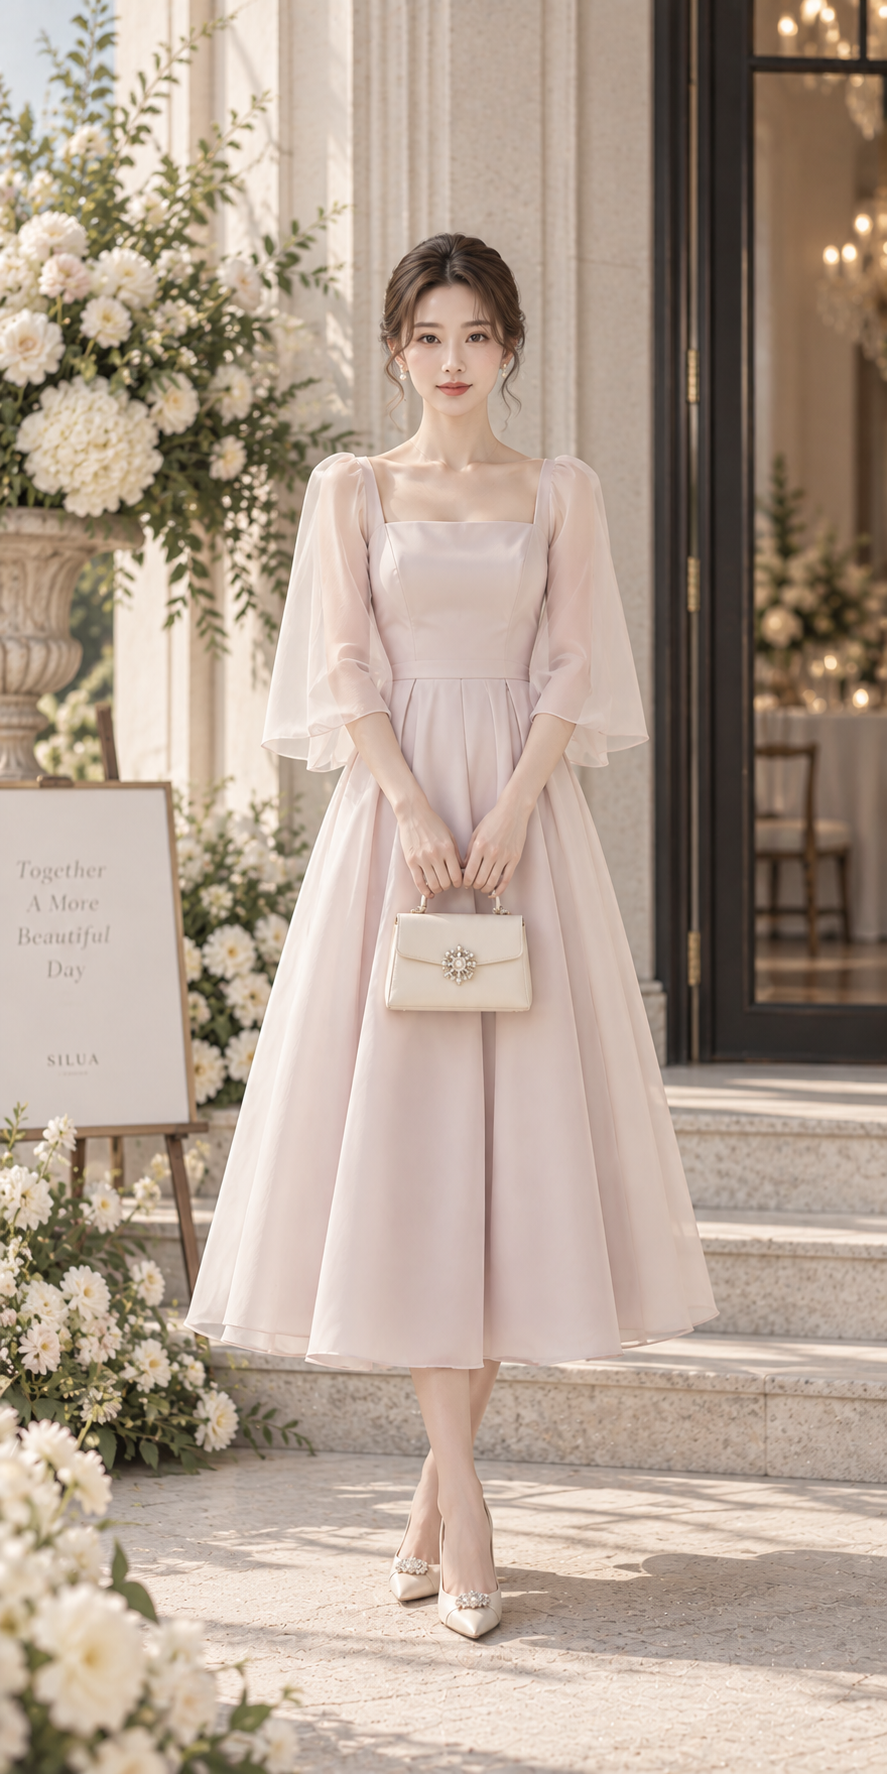
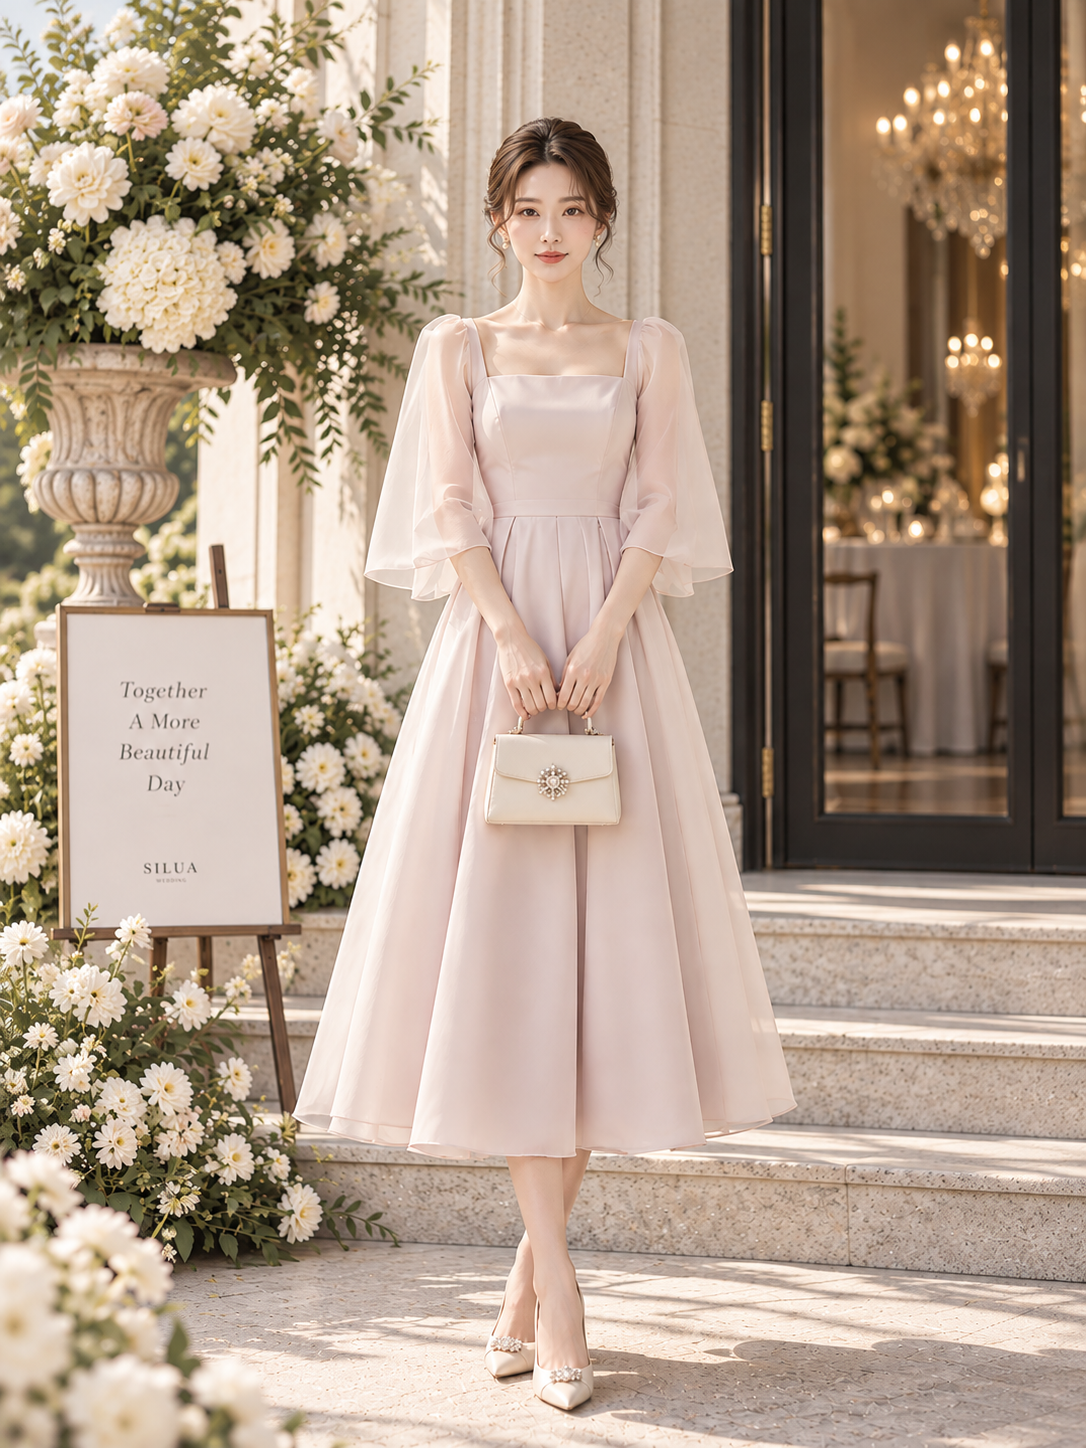
[정민지] 메인 이미지와 소개 문구 조정

diff --git a/index.html b/index.html
@@ -17,7 +17,7 @@
 
   <!-- 탭 아이콘 (images/favicon.png 넣으면 표시됨) -->
   <link rel="icon" href="images/favicon.png" />
-  <link rel="stylesheet" href="style.css?v=20260918-new-images-25" />
+  <link rel="stylesheet" href="style.css?v=20260918-home-copy-26" />
 </head>
 <body class="home-page">
 
@@ -79,22 +79,22 @@
   <div class="home-transition" aria-label="SILUA 컬렉션">
     <div class="home-transition-inner">
       <p class="home-transition-logo">SILUA</p>
-      <p class="home-transition-copy">예쁜 옷을 입는 것보다,<br />나에게 어울리는 아름다움을 찾는 것. SILUA는 셀프 웨딩에서 시작해<br />나에게 가장 어울리는 실루엣과 스타일을 제안합니다.</p>
+      <p class="home-transition-copy"><span class="home-transition-emphasis">예쁜 옷을 입는 것보다,<br />나에게 어울리는 아름다움을 찾는 것.</span><span>SILUA는 셀프 웨딩에서 시작해<br />나에게 가장 어울리는 실루엣과 스타일을 제안합니다.</span></p>
     </div>
   </div>
 
   <!-- ===== 메인 카테고리: 전용 사진을 받으면 이미지 경로만 교체하세요. ===== -->
   <section class="home-categories" id="themes" aria-label="SILUA 카테고리">
     <a class="home-category" data-theme-category="self-wedding" href="products.html?collection=self-wedding">
-      <figure><img src="images/theme-bridal.png?v=20260918-2" alt="브라이덜 컬렉션" /></figure>
+      <figure><img src="images/theme-bridal.png?v=20260918-3" alt="브라이덜 컬렉션" /></figure>
       <div class="home-category-copy"><h2>Self Weading</h2><p>인생의 주인공이 되는 날</p><span>자세히 보기 &gt;</span></div>
     </a>
     <a class="home-category" data-theme-category="evening-party" href="products.html?collection=evening-party">
-      <figure><img src="images/theme-evening.png?v=20260918-2" alt="이브닝 컬렉션" /></figure>
+      <figure><img src="images/theme-evening.png?v=20260918-3" alt="이브닝 컬렉션" /></figure>
       <div class="home-category-copy"><h2>Evening &amp; Party</h2><p>화려하게 빛나는 순간</p><span>자세히 보기 &gt;</span></div>
     </a>
     <a class="home-category" data-theme-category="wedding-attire" href="products.html?collection=wedding-attire">
-      <figure><img src="images/theme-modern.png?v=20260918-2" alt="모던 컬렉션" /></figure>
+      <figure><img src="images/theme-modern.png?v=20260918-3" alt="모던 컬렉션" /></figure>
       <div class="home-category-copy"><h2>Wedding Attire</h2><p>특별한 날의 레디투웨어</p><span>자세히 보기 &gt;</span></div>
     </a>
   </section>

diff --git a/style.css b/style.css
@@ -13,6 +13,7 @@
   --header-light: #fff;
   --header-glass: rgba(245, 242, 236, .7);
   --header-hover: #9c7770;
+  --brand-brown: #765548;
   --hero-overlay: rgba(253, 252, 249, .54);
   --control-surface: rgba(38, 35, 31, .32);
   --control-muted: rgba(255, 255, 255, .48);
@@ -150,6 +151,9 @@ a { color: inherit; }
 .home-transition-inner { min-width: 0; text-align: center; }
 .home-transition-logo { margin: 0; font-family: var(--font-display); font-size: clamp(37.5px, 10.5vw, 54px); font-weight: 500; letter-spacing: 7px; line-height: 1; }
 .home-transition-copy { max-width: 680px; margin: 30px auto 0; color: var(--ink-soft); font-size: clamp(13px, 3.6vw, 16px); line-height: 2; word-break: keep-all; }
+.home-transition-copy span { display: block; }
+.home-transition-copy span + span { margin-top: 20px; }
+.home-transition-emphasis { color: var(--brand-brown); font-weight: 600; }
 .home-categories { display: grid; grid-template-columns: repeat(3, minmax(0, 1fr)); background: var(--bg); }
 .home-category { min-width: 0; color: var(--ink); text-align: center; text-decoration: none; }
 .home-category figure { aspect-ratio: 4 / 5; margin: 0; overflow: hidden; background: var(--surface); }

diff --git a/about.html b/about.html
@@ -6,7 +6,7 @@
   <title>브랜드 소개 — SILUA</title>
   <meta name="description" content="브랜드 스토리와 철학을 소개합니다." />
   <link rel="icon" href="images/favicon.png" />
-  <link rel="stylesheet" href="style.css?v=20260918-new-images-25" />
+  <link rel="stylesheet" href="style.css?v=20260918-home-copy-26" />
   <link rel="stylesheet" href="rich-content.css?v=20260826-rich-editor-1" />
   <!-- 이 페이지의 본문 글자에만 사용하는 스크롤 효과입니다. -->
   <style>

diff --git a/portfolio.html b/portfolio.html
@@ -6,7 +6,7 @@
   <title>포트폴리오 — SILUA</title>
   <meta name="description" content="브랜드의 작업 사례를 소개합니다." />
   <link rel="icon" href="images/favicon.png" />
-  <link rel="stylesheet" href="style.css?v=20260918-new-images-25" />
+  <link rel="stylesheet" href="style.css?v=20260918-home-copy-26" />
   <link rel="stylesheet" href="rich-content.css?v=20260826-rich-editor-1" />
 </head>
 <body>

diff --git a/product.html b/product.html
@@ -6,7 +6,7 @@
   <title>제품 상세 — SILUA</title>
   <meta name="description" content="제품 상세 정보" />
   <link rel="icon" href="images/favicon.png" />
-  <link rel="stylesheet" href="style.css?v=20260918-new-images-25" />
+  <link rel="stylesheet" href="style.css?v=20260918-home-copy-26" />
   <link rel="stylesheet" href="rich-content.css?v=20260826-rich-editor-1" />
 </head>
 <body>

diff --git a/reservation.html b/reservation.html
@@ -6,7 +6,7 @@
   <title>예약 — SILUA</title>
   <meta name="description" content="SILUA 공방 체험과 퍼스널 컬러·체형 진단 예약 안내" />
   <link rel="icon" href="images/favicon.png" />
-  <link rel="stylesheet" href="style.css?v=20260918-new-images-25" />
+  <link rel="stylesheet" href="style.css?v=20260918-home-copy-26" />
 </head>
 <body>
   <header class="site-header">

diff --git a/accessories.html b/accessories.html
@@ -6,7 +6,7 @@
   <title>액세서리 — SILUA</title>
   <meta name="description" content="SILUA 구두와 웨딩 잡화를 소개합니다." />
   <link rel="icon" href="images/favicon.png" />
-  <link rel="stylesheet" href="style.css?v=20260918-new-images-25" />
+  <link rel="stylesheet" href="style.css?v=20260918-home-copy-26" />
 </head>
 <body>
   <header class="site-header">

diff --git a/mypage.html b/mypage.html
@@ -6,7 +6,7 @@
   <title>My Page — SILUA</title>
   <meta name="description" content="SILUA 회원의 최근 본 상품과 주문 내역" />
   <link rel="icon" href="images/favicon.png" />
-  <link rel="stylesheet" href="style.css?v=20260918-new-images-25" />
+  <link rel="stylesheet" href="style.css?v=20260918-home-copy-26" />
 </head>
 <body>
   <header class="site-header">

diff --git a/customer.html b/customer.html
@@ -6,7 +6,7 @@
   <title>고객지원 — SILUA</title>
   <meta name="description" content="SILUA Q&A와 자주 묻는 질문" />
   <link rel="icon" href="images/favicon.png" />
-  <link rel="stylesheet" href="style.css?v=20260918-new-images-25" />
+  <link rel="stylesheet" href="style.css?v=20260918-home-copy-26" />
 </head>
 <body>
   <header class="site-header">

diff --git a/contact.html b/contact.html
@@ -6,7 +6,7 @@
   <title>문의 — SILUA</title>
   <meta name="description" content="브랜드에 문의하는 방법을 안내합니다." />
   <link rel="icon" href="images/favicon.png" />
-  <link rel="stylesheet" href="style.css?v=20260918-new-images-25" />
+  <link rel="stylesheet" href="style.css?v=20260918-home-copy-26" />
 </head>
 <body>
 

diff --git a/products.html b/products.html
@@ -6,7 +6,7 @@
   <title>제품 — SILUA</title>
   <meta name="description" content="브랜드의 제품(컬렉션)을 소개합니다." />
   <link rel="icon" href="images/favicon.png" />
-  <link rel="stylesheet" href="style.css?v=20260918-new-images-25" />
+  <link rel="stylesheet" href="style.css?v=20260918-home-copy-26" />
 </head>
 <body>
 
